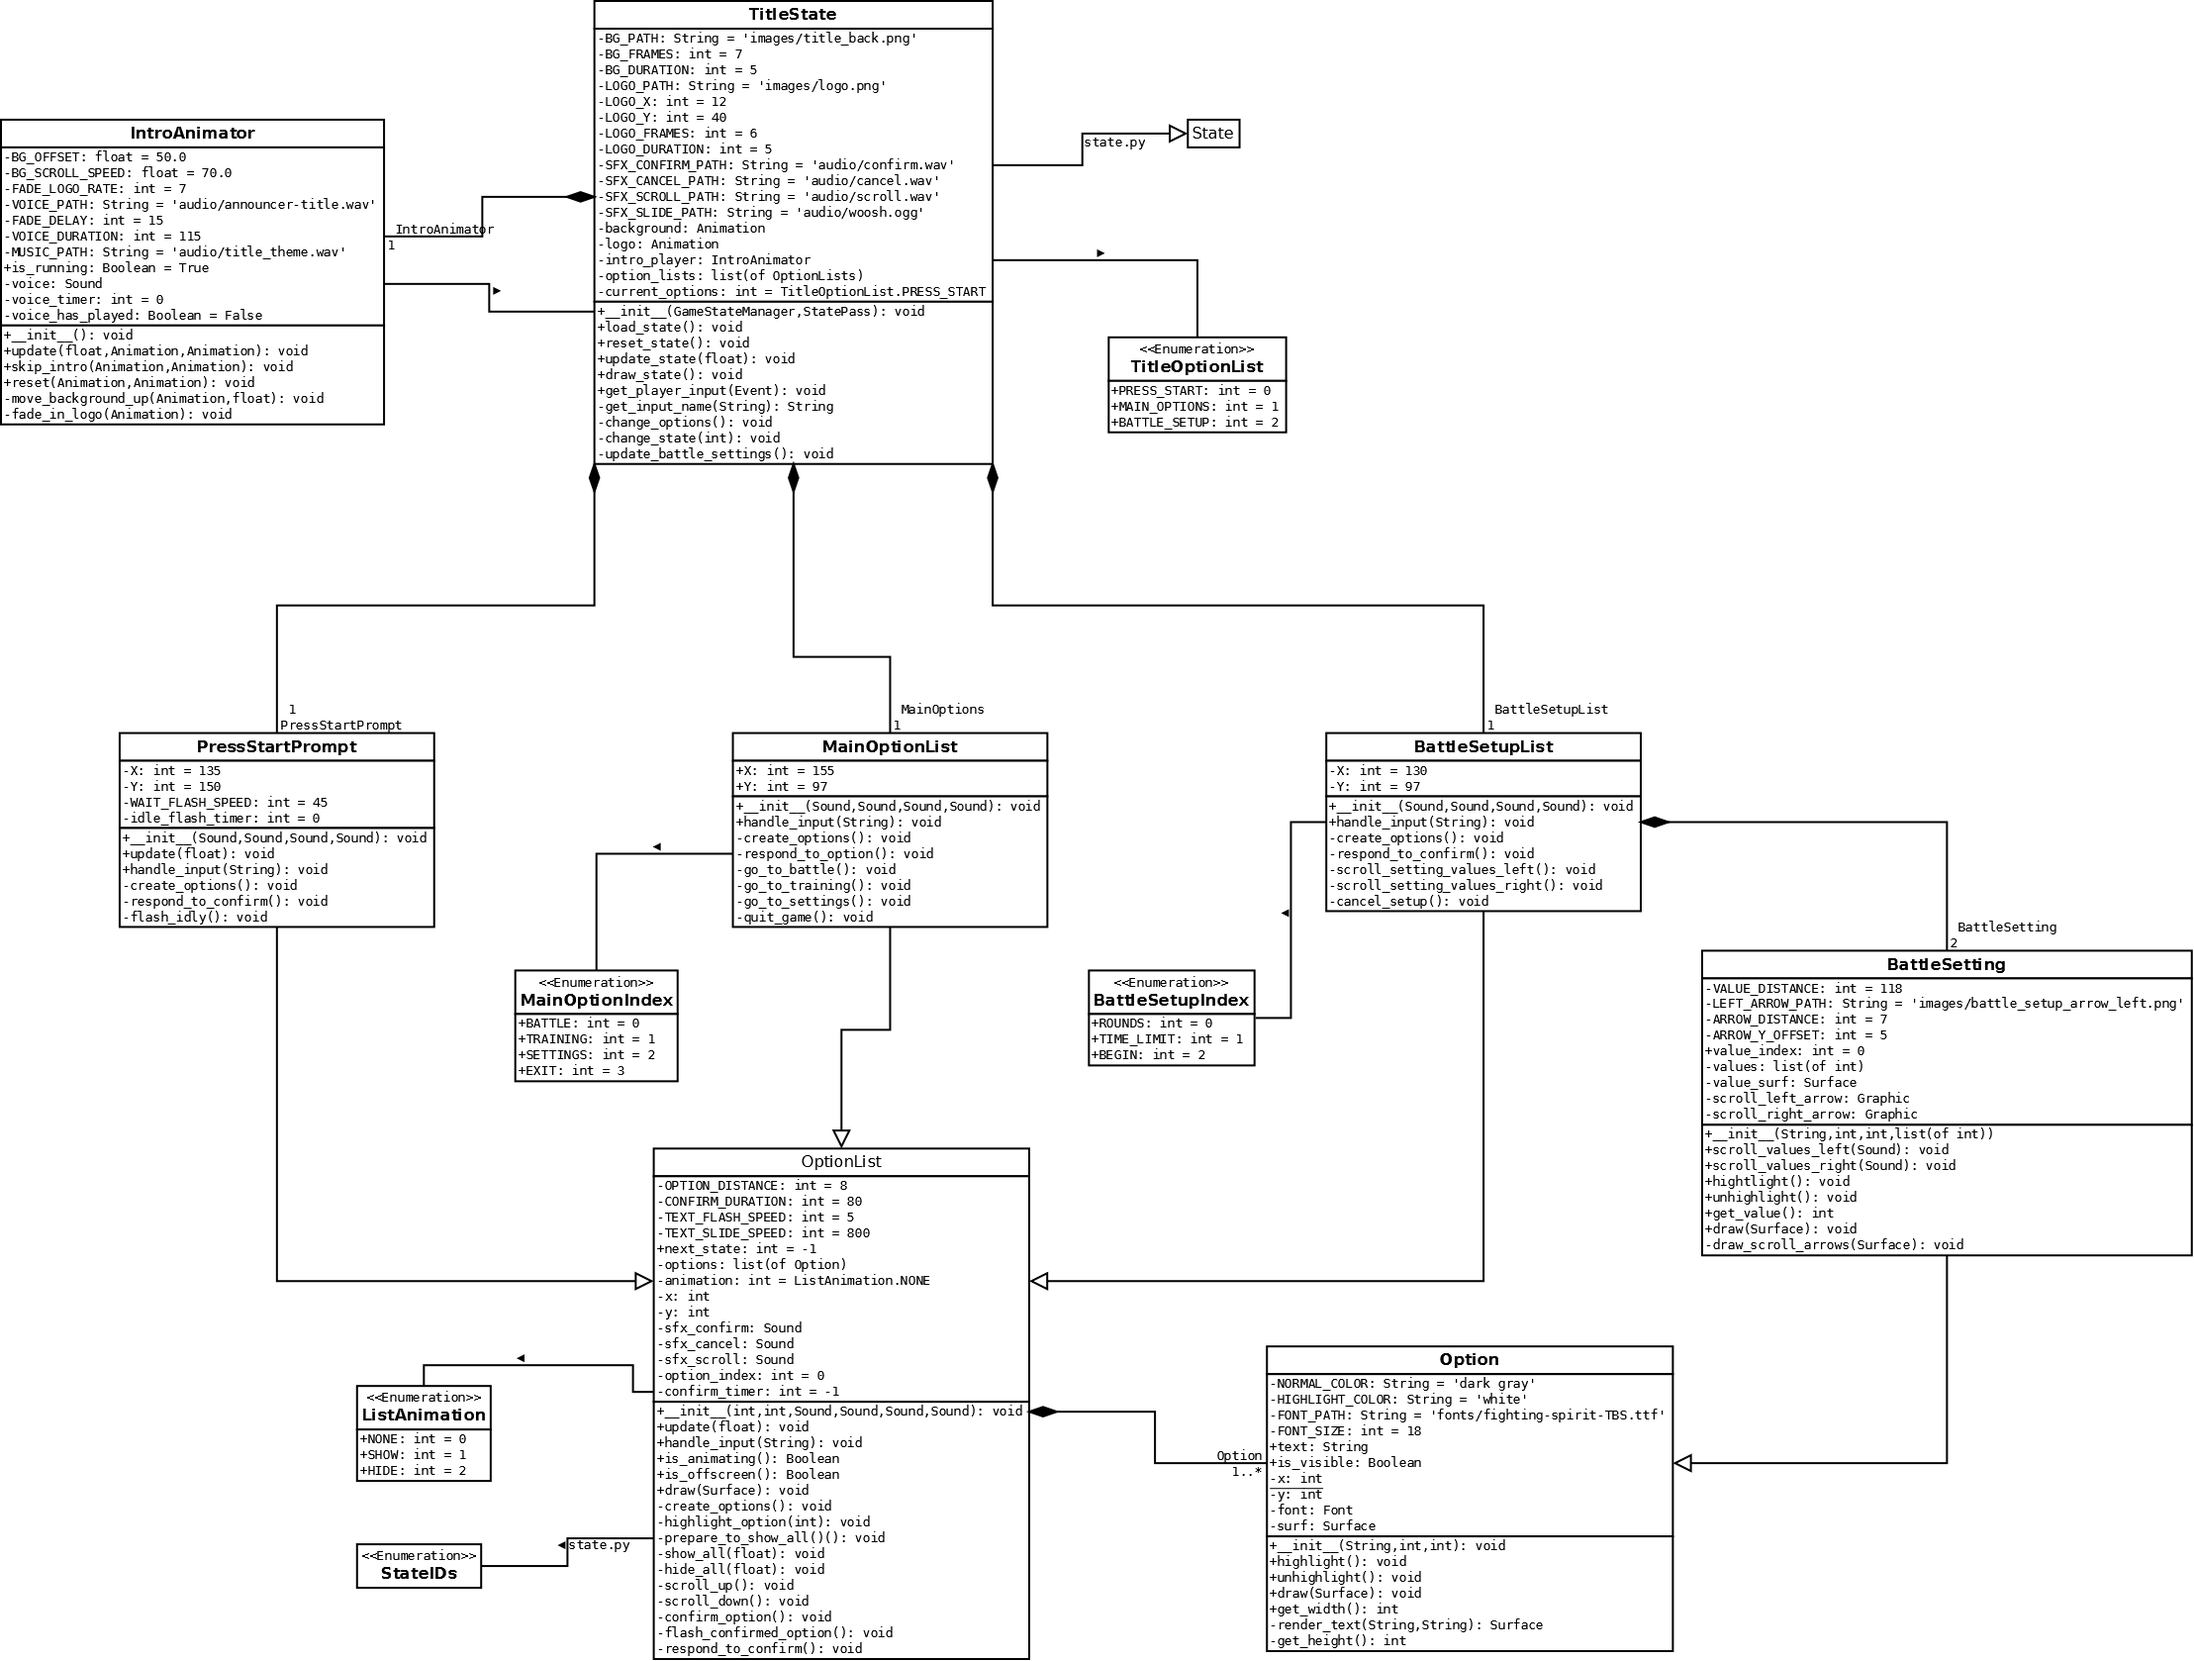
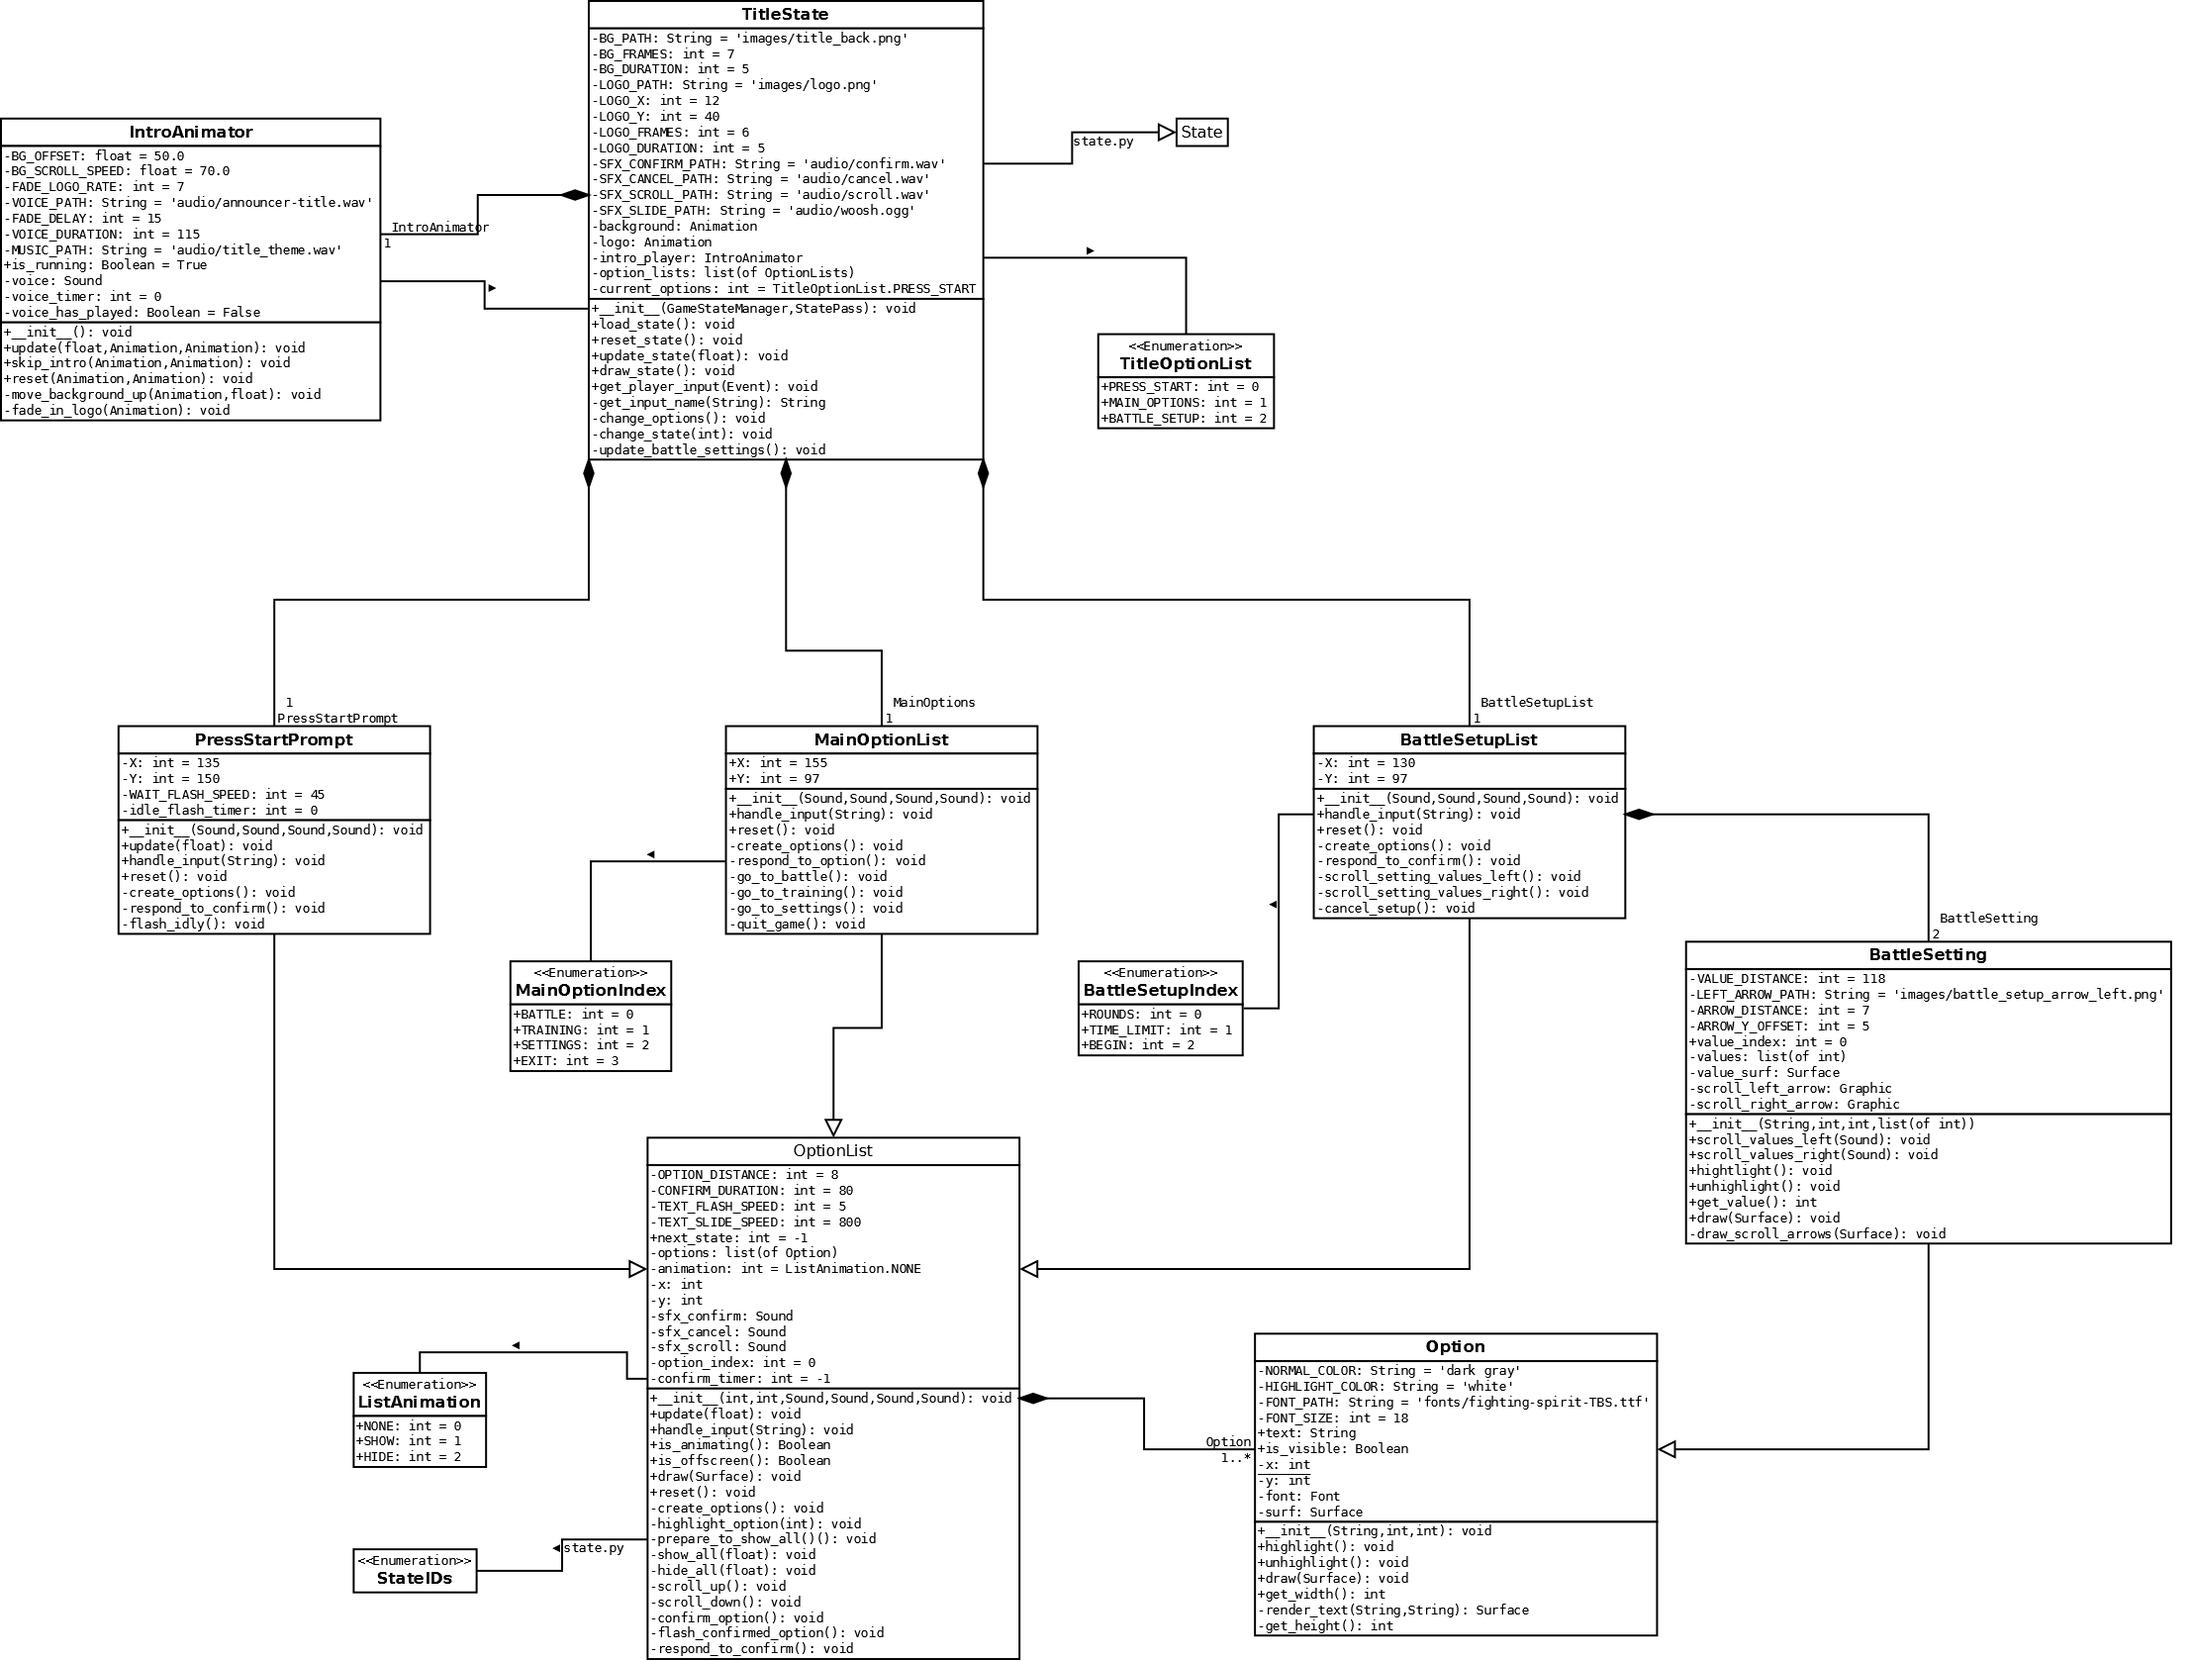
OptionList: Add reset()
This will be called on each OptionList in TitleState's reset_state()
method.

diff --git a/lib/game_states/title_state_new.py b/lib/game_states/title_state_new.py
@@ -278,6 +278,10 @@ class OptionList(object):
         for option in self.options:
             option.draw(parent_surf)
 
+    def reset(self):
+        """Prepare this OptionList to be shown again."""
+        raise NotImplementedError
+
     def prepare_to_show_all(self):
         """Position all of the Options in this list for the start of the
         'show all' animation.
@@ -514,6 +518,13 @@ class PressStartPrompt(OptionList):
             self.options[0].is_visible = True
             self.confirm_option()
 
+    def reset(self):
+        """Prepare the prompt to be shown again."""
+        self.x = self.X
+        self.y = self.Y
+        self.idle_flash_timer = 0
+        self.animation = ListAnimation.NONE
+
     def respond_to_confirm(self):
         """Hide the prompt and then go to the Main Options list."""
         self.animation = ListAnimation.HIDE
@@ -581,6 +592,11 @@ class MainOptionList(OptionList):
             self.scroll_down()
         elif input_name == 'start':
             self.confirm_option()
+
+    def reset(self):
+        """Prepare the OptionList to be shown again."""
+        self.prepare_to_show_all()
+        self.animation = ListAnimation.SHOW
 
     def respond_to_confirm(self):
         """Perform the appropriate operation based on whichever Option
@@ -693,6 +709,11 @@ class BattleSetupList(OptionList):
             self.confirm_option()
         elif input_name == 'cancel':
             self.cancel_setup()
+
+    def reset(self):
+        """Prepare the OptionList to be shown again."""
+        self.prepare_to_show_all()
+        self.animation = ListAnimation.SHOW
 
     def scroll_setting_values_left(self):
         """Select the previous value in the currently-selected
